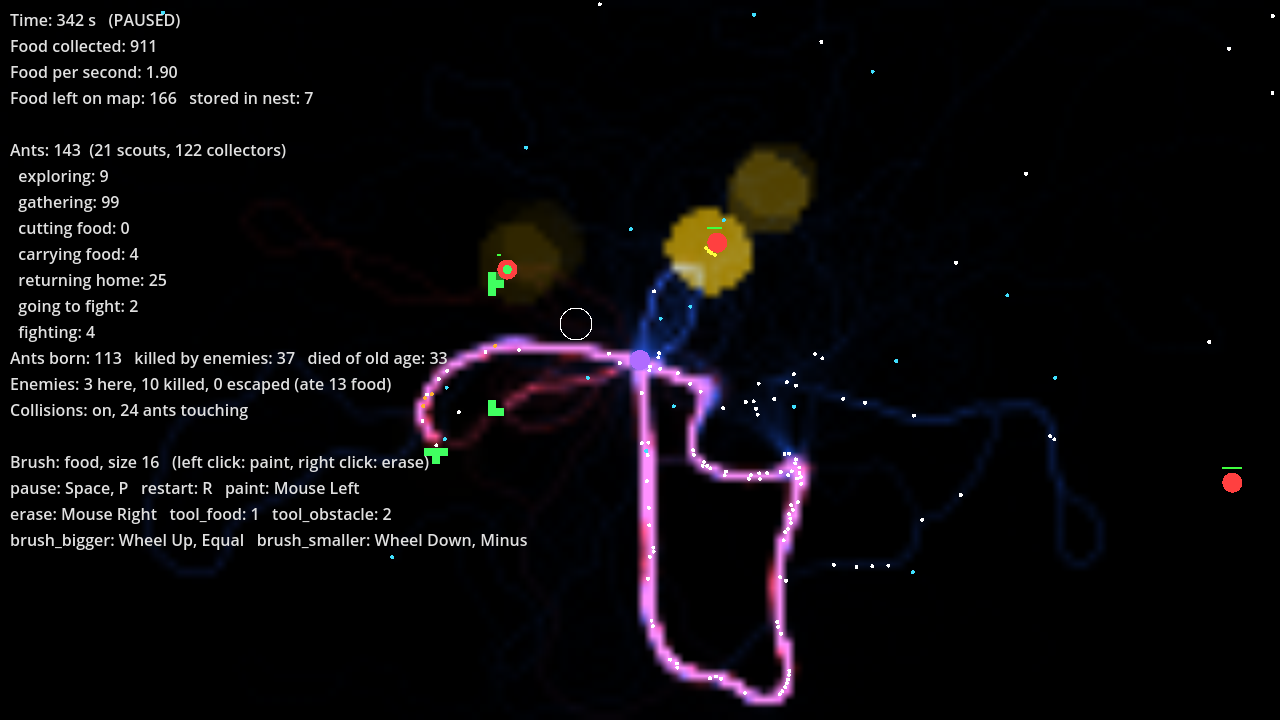
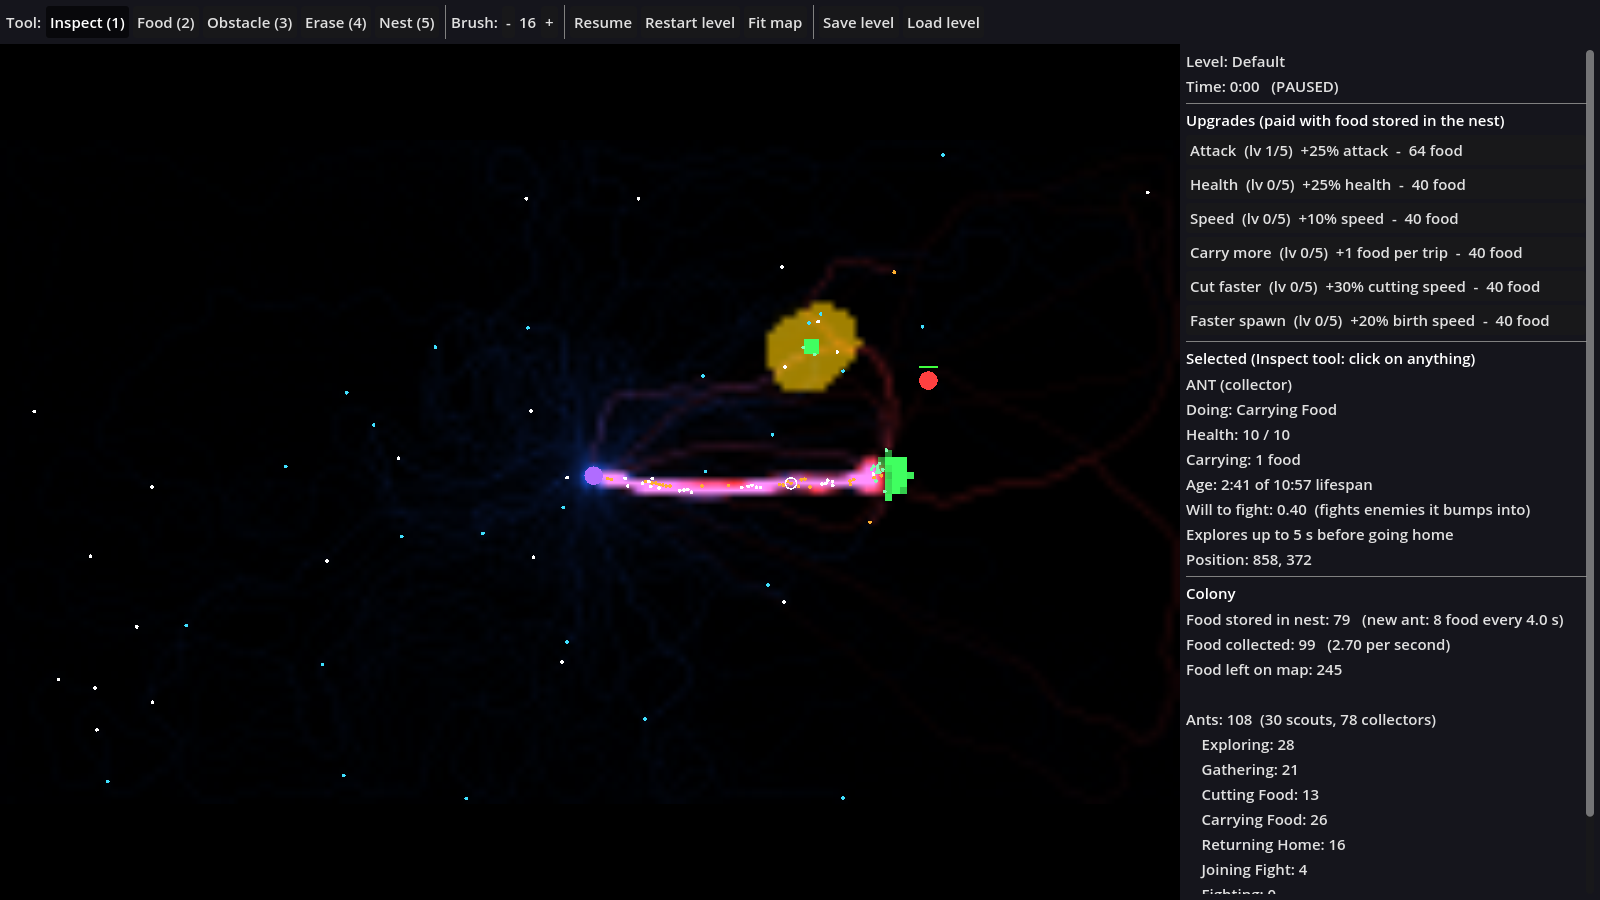
Side panel order, README for levels and new controls, screenshot
Claude-Session: https://claude.ai/code/session_01U91HAFVKbeBjaCWM2Qyx5h

diff --git a/REQUEST_LOG.md b/REQUEST_LOG.md
@@ -4,6 +4,67 @@ Newest first. Each entry: date, request (verbatim), what was done, commits.
 
 ---
 
+## #14 — 2026-10-20
+
+**Request:**
+> Make the basic grid with a clump of food a "Level" . The game loads into a level. A level is a file that remembers the placement of everything on the grid. You can load into them. Code it in a way that levels could be different sizes. Levels don't need to remember pheromones and ant placement. Ants cannot just reappear at the nest.
+>
+> Add a zoom feature to the visualization.
+>
+> Make the window bigger, even in not necessarily the visualization area. Use the rest of the space to display the information.
+>
+> Add a tool bar for the painting of the grid.
+>
+> Add a save button that will memorize the grid into a level.
+>
+> Add a load level that'll load into a level.
+>
+> Add a timer that'll pause if the game is paused and starts when a level is loaded
+>
+> Add a few gameplay buttons. Ants still spawn automatically.
+>
+> Each of these buttons will have a cost of food:
+> Gain attack
+> Gain hp
+> Gain speed
+> Gain amount that can be carried
+> Gain cut speed
+> Faster spawn
+>
+> Balance this roughly
+>
+> Generally make everything a bit slower, it feels too fast right now.
+>
+> When clicking on anything, information on it will show up. Display the information you have
+
+**Done:**
+- Levels (`scripts/simulation/level.gd`, `levels/*.level`): plain text files with name, cell
+  size, starting ants, nest cell and a character map ("." empty, "#" obstacle, 1-9/a-z food).
+  Map size comes from the file, so levels can be any size. Included: `default.level`
+  (160x90, one food clump) and `walled_valley.level` (240x110 with walls). The game starts on
+  `[game] start_level`. On load the starting colony emerges from the nest one by one
+  (interpretation of "ants cannot just reappear at the nest").
+- Window 1600x900: tool bar on top (tools Inspect/Food/Obstacle/Erase/Nest, brush size,
+  pause, restart, fit map, save level, load level), side panel on the right (level, timer,
+  upgrades, selected-object info, colony stats). Save/Load use a file dialog in `levels/`.
+- Zoom with the mouse wheel towards the cursor, pan with middle-drag / arrows / WASD.
+- Timer: play time on the level, stops while paused, resets when a level is loaded.
+- Upgrades (bought with food stored in the nest): attack +25%, health +25%, speed +10%,
+  carry +1 food, cutting +30%, birth speed +20% per level; 5 levels, cost 40 x 1.6^level.
+  Ants carry several pieces now (cut one at a time). Births are timed (1 ant / 4 s if 8 food
+  stored) so food can build up for upgrades.
+- Inspect tool: click an ant, enemy, the nest or a map cell to see its details (live).
+- Slower: `[simulation] game_speed = 0.7` (everything runs at 70%, still 30 updates/s).
+- Balance test (30 min game time, 2 maps): without buying, the colony holds at ~80-105 ants
+  and stockpiles food; buying the cheapest upgrade whenever possible gives ~18 upgrades
+  (about level 3 in everything) and ~185-200 ants.
+
+**Commits:**
+- `b22cbdb` — Add levels (load/save), zoom and pan, tool bar, side panel with timer, upgrades and inspector; slower game speed
+- _(second commit filled in below once committed)_
+
+---
+
 ## #13 — 2026-10-20
 
 **Request:**

diff --git a/README.md b/README.md
@@ -6,16 +6,20 @@ A video game prototype made with **Godot 4.3+** (standard version, not .NET).
 1. Get the code (first time): `git clone https://github.com/GaryNiet/ant-claude-test.git`
    Later updates: `git pull`
 2. Open Godot → **Import** → select `project.godot` in this folder.
-3. Press **F5** (Run).
+3. Press **F5** (Run). The game opens on `levels/default.level`.
 
 | Control | Action |
 |---|---|
-| Left mouse | Paint with the selected tool |
-| Right mouse | Erase food and obstacles |
-| **1** / **2** | Select tool: food / obstacle |
-| Mouse wheel or **=** / **-** | Brush size |
+| Tool bar (top) or keys **1**-**5** | Tool: Inspect / Food / Obstacle / Erase / Nest |
+| Left mouse | Use the tool (Inspect: click anything to see its info in the side panel) |
+| Right mouse | Erase food and obstacles (any tool) |
+| **[** / **]** or **-** / **=** | Brush size |
+| Mouse wheel | Zoom (towards the mouse) |
+| Middle mouse drag, arrows or **WASD** | Move the map |
 | **Space** | Pause (you can still paint while paused) |
-| **R** | Restart with a new random map |
+| **R** | Restart the level |
+| Side panel buttons | Upgrades, paid with food stored in the nest |
+| Save level / Load level | Save the current map as a level / start another level |
 
 All controls can be changed in `game_settings.cfg` under `[controls]`.
 
@@ -30,9 +34,11 @@ red glow = "going home" pheromone (pink where both overlap), yellow glow = fight
 ## Where things are
 | File | What it is |
 |------|------------|
+| `levels/` | Level files (`*.level`): map size, nest, starting ants, obstacles and food, as editable text. |
 | `game_settings.cfg` | **All tunable values** (speeds, sizes, colors, keys, window). Edit this to tweak the game. |
 | `REQUEST_LOG.md` | Dated log of every request and the commits that implemented it. |
 | `scripts/simulation/` | The simulation itself (no drawing): `colony_simulation.gd` runs it, `ant.gd` is the ant brain, `pheromone_grid.gd` the map of smells. |
-| `scripts/view/` | Drawing the simulation and the stats text. |
+| `scripts/view/` | Drawing the map, camera (zoom/pan), painting and selection. |
+| `scripts/ui/` | Tool bar and side panel (timer, upgrades, selected-object info, stats). |
 | `scenes/` | Godot scenes. |
 | `CLAUDE.md` | Rules the AI assistant follows when changing this project. |
